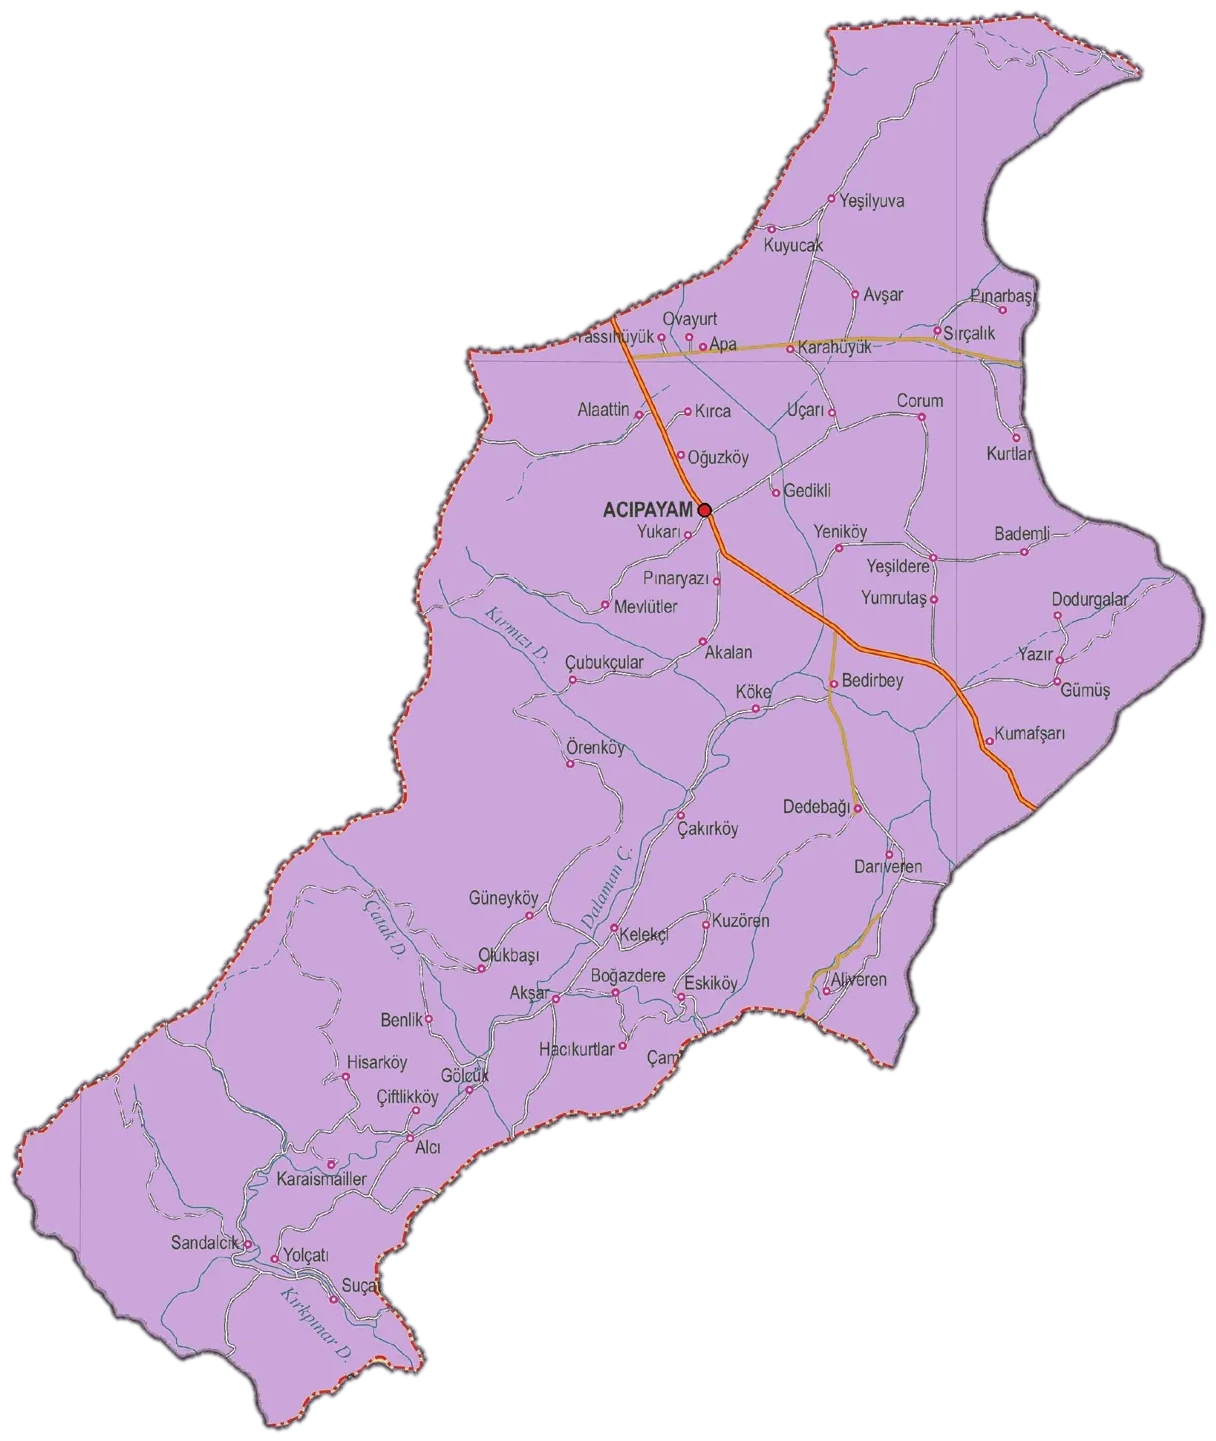
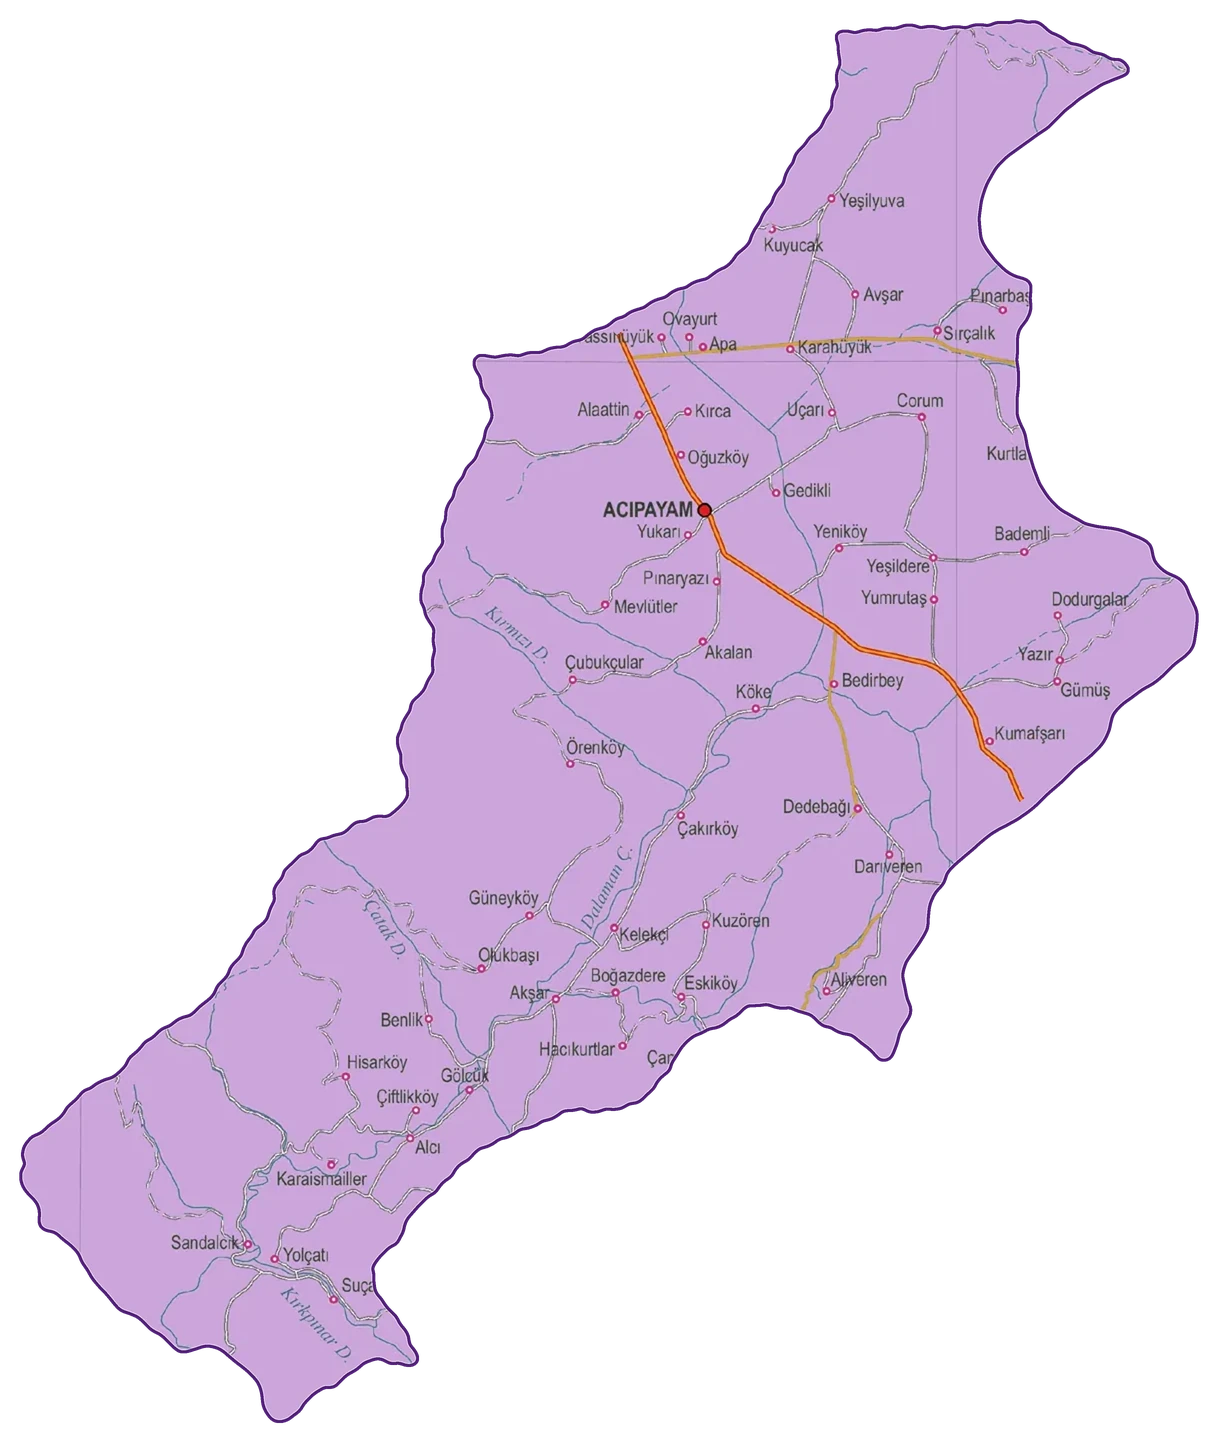
Köy haritası sınırı yeniden kesildi: pürüzsüz kenar, temiz mor sınır çizgisi
Claude-Session: https://claude.ai/code/session_016JvfJXDgjC8Qsf781nDcrk

diff --git a/tools/harita_kes.py b/tools/harita_kes.py
@@ -1,0 +1,37 @@
+import numpy as np
+from PIL import Image
+from scipy import ndimage as nd
+SRC='/home/user/acipayam-site/static/img/acipayam-map.webp'
+im=Image.open(SRC).convert('RGB'); a=np.asarray(im).astype(float)
+lum=a.mean(2)
+light=nd.binary_closing(lum>150,iterations=6)
+lab,n=nd.label(light); m=lab==(1+int(np.argmax(nd.sum(light,lab,range(1,n+1)))))
+m=nd.binary_fill_holes(m)
+m=nd.binary_erosion(m,iterations=5)          # noktalı kırmızı sınırın içine çekil
+f=nd.gaussian_filter(m.astype(float),4)       # kenarı yumuşat (pürüzleri al)
+K=3
+H,W=m.shape
+F=np.asarray(Image.fromarray(f.astype('float32'),'F').resize((W*K,H*K),Image.BICUBIC))
+inside=F>0.5
+dout=nd.distance_transform_edt(~inside)
+S=3.2*K
+stroke=(~inside)&(dout<=S)
+big=np.asarray(im.resize((W*K,H*K),Image.BICUBIC)).astype(np.uint8)
+rgba=np.zeros((H*K,W*K,4),np.uint8)
+din0=nd.distance_transform_edt(inside)
+b=big.astype(int); red=(b[...,0]>b[...,1]+70)&(b[...,0]>b[...,2]+30)
+yak=inside&(din0<=10*K)&red
+yak=nd.binary_dilation(yak,iterations=2*K)&inside&(din0<=12*K)
+lil=np.median(big[inside&(din0>20*K)&(~red)][::50],axis=0).astype(np.uint8)
+big=big.copy(); big[yak]=lil
+rgba[inside,:3]=big[inside]; rgba[inside,3]=255
+rgba[stroke,:3]=(79,31,117); rgba[stroke,3]=255
+# içte ince açık çizgi: sınıra canlılık
+din=nd.distance_transform_edt(inside)
+hl=inside&(din<=1.2*K)
+rgba[hl,:3]=(0.55*rgba[hl,:3]+0.45*255).astype(np.uint8)
+out=Image.fromarray(rgba,'RGBA').resize((W,H),Image.LANCZOS)
+out=out.crop((137,107,1353,1548))
+out.save('/home/user/acipayam-site/static/img/acipayam-harita.webp',quality=90,method=6)
+bg=Image.new('RGBA',out.size,(255,255,255,255)); bg.alpha_composite(out); bg=bg.convert('RGB'); pass
+print(out.size)

diff --git a/build.py b/build.py
@@ -798,7 +798,7 @@ def page_hero(kicker, title, lead="", img=""):
 
 # Harita: ilçe sınırı dışındaki koyu arka plan kesildi (tools/… maske.py). Pin konumları
 # kesilmemiş 1376×1600 görsele göre; kırpılmış görsele çevrilir.
-MAP_IMG, MAP_W, MAP_H = "/img/acipayam-harita.webp", 1216, 1441
+MAP_IMG, MAP_W, MAP_H = "/img/acipayam-harita.webp?v=2", 1216, 1441
 _MAP_CROP = (137, 107, 1376, 1600)
 
 
